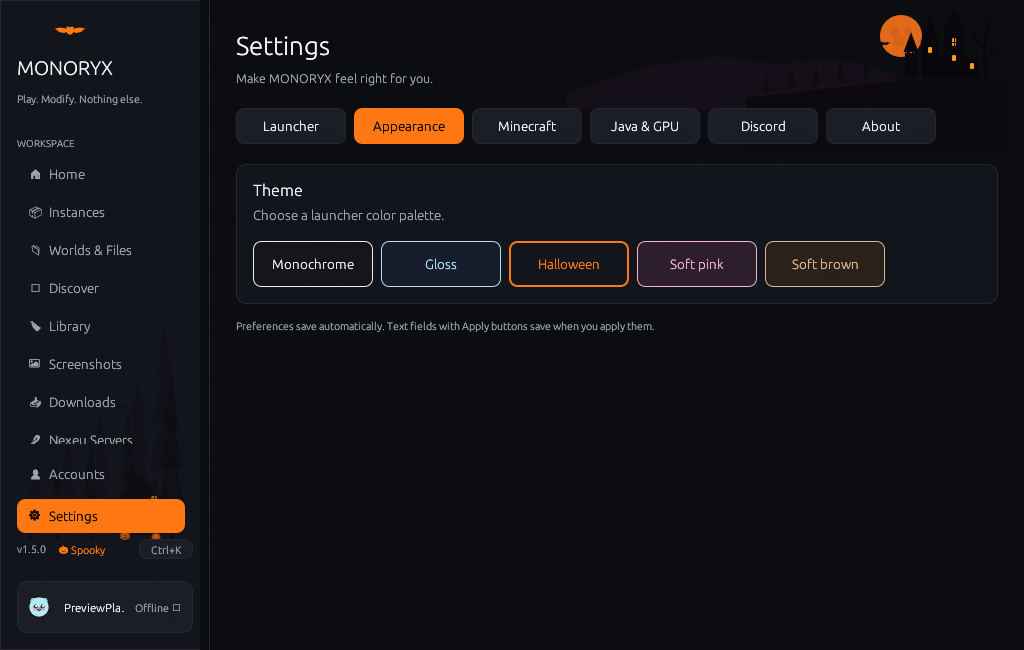
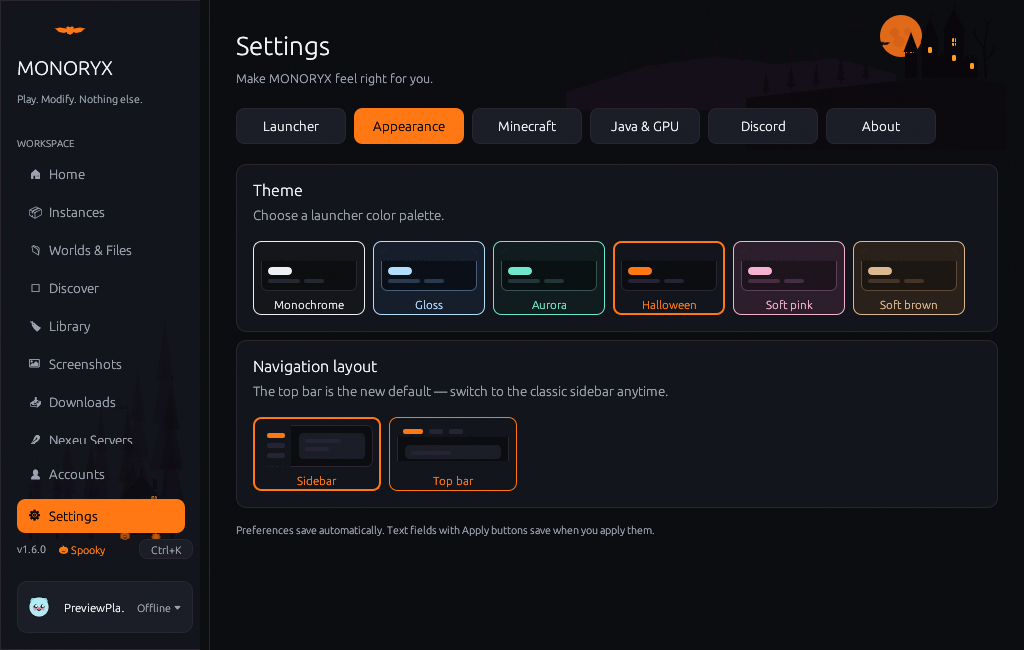
feat(ui): add optional Aurora theme and refresh theme preview cards

diff --git a/src/ui/pages/settings.rs b/src/ui/pages/settings.rs
@@ -667,7 +667,7 @@ fn appearance_settings(state: &mut AppState, ctx: &egui::Context, ui: &mut egui:
 
 fn theme_card(ui: &mut egui::Ui, theme: ThemeKind, selected: bool) -> egui::Response {
     let p = crate::ui::theme::palette_for(theme);
-    let (rect, response) = ui.allocate_exact_size(egui::vec2(128.0, 74.0), egui::Sense::click());
+    let (rect, response) = ui.allocate_exact_size(egui::vec2(112.0, 74.0), egui::Sense::click());
     let corner = CornerRadius::same(8);
     let painter = ui.painter();
     painter.rect_filled(rect, corner, p.elevated);
@@ -681,7 +681,7 @@ fn theme_card(ui: &mut egui::Ui, theme: ThemeKind, selected: bool) -> egui::Resp
         egui::StrokeKind::Inside,
     );
     let preview =
-        egui::Rect::from_min_size(rect.min + egui::vec2(8.0, 8.0), egui::vec2(112.0, 42.0));
+        egui::Rect::from_min_size(rect.min + egui::vec2(8.0, 8.0), egui::vec2(96.0, 42.0));
     painter.rect(
         preview,
         CornerRadius::same(6),
@@ -700,17 +700,17 @@ fn theme_card(ui: &mut egui::Ui, theme: ThemeKind, selected: bool) -> egui::Resp
         p.elevated,
     );
     painter.rect_filled(
-        egui::Rect::from_min_size(preview.min + egui::vec2(7.0, 18.0), egui::vec2(26.0, 8.0)),
+        egui::Rect::from_min_size(preview.min + egui::vec2(7.0, 18.0), egui::vec2(24.0, 8.0)),
         CornerRadius::same(4),
         p.accent,
     );
     painter.rect_filled(
-        egui::Rect::from_min_size(preview.min + egui::vec2(7.0, 30.0), egui::vec2(38.0, 4.0)),
+        egui::Rect::from_min_size(preview.min + egui::vec2(7.0, 30.0), egui::vec2(32.0, 4.0)),
         CornerRadius::same(2),
         p.hover,
     );
     painter.rect_filled(
-        egui::Rect::from_min_size(preview.min + egui::vec2(50.0, 30.0), egui::vec2(26.0, 4.0)),
+        egui::Rect::from_min_size(preview.min + egui::vec2(43.0, 30.0), egui::vec2(20.0, 4.0)),
         CornerRadius::same(2),
         p.hover,
     );

diff --git a/src/config/mod.rs b/src/config/mod.rs
@@ -58,6 +58,7 @@ impl GpuPreference {
 pub enum ThemeKind {
     Monochrome,
     Gloss,
+    Aurora,
     #[default]
     Halloween,
     SoftPink,
@@ -69,16 +70,18 @@ impl ThemeKind {
         match self {
             Self::Monochrome => "Monochrome",
             Self::Gloss => "Gloss",
+            Self::Aurora => "Aurora",
             Self::Halloween => "Halloween",
             Self::SoftPink => "Soft pink",
             Self::SoftBrown => "Soft brown",
         }
     }
 
-    pub const fn all() -> [Self; 5] {
+    pub const fn all() -> [Self; 6] {
         [
             Self::Monochrome,
             Self::Gloss,
+            Self::Aurora,
             Self::Halloween,
             Self::SoftPink,
             Self::SoftBrown,
@@ -879,6 +882,13 @@ mod tests {
                 .start_maximized
         );
         assert_eq!(LauncherConfig::default().window_width, 1280.0);
+    }
+
+    #[test]
+    fn theme_options_include_aurora_without_changing_the_default() {
+        assert_eq!(ThemeKind::default(), ThemeKind::Halloween);
+        assert!(ThemeKind::all().contains(&ThemeKind::Aurora));
+        assert_eq!(ThemeKind::Aurora.label(), "Aurora");
     }
 
     #[test]

diff --git a/src/ui/theme.rs b/src/ui/theme.rs
@@ -107,6 +107,16 @@ pub fn palette_for(theme: ThemeKind) -> Palette {
             accent_hover: Color32::from_rgb(215, 240, 255),
             accent_text: Color32::from_rgb(10, 23, 40),
         },
+        ThemeKind::Aurora => Palette {
+            bg: Color32::from_rgb(9, 17, 19),
+            elevated: Color32::from_rgb(17, 28, 31),
+            elevated2: Color32::from_rgb(25, 39, 43),
+            border: Color32::from_rgb(56, 82, 85),
+            hover: Color32::from_rgb(35, 53, 57),
+            accent: Color32::from_rgb(110, 231, 205),
+            accent_hover: Color32::from_rgb(167, 243, 227),
+            accent_text: Color32::from_rgb(5, 32, 28),
+        },
         ThemeKind::SoftPink => Palette {
             bg: Color32::from_rgb(30, 20, 30),
             elevated: Color32::from_rgb(44, 30, 44),

diff --git a/src/ui/shell/sidebar.rs b/src/ui/shell/sidebar.rs
@@ -298,6 +298,7 @@ fn sidebar_footer(state: &mut AppState, ui: &mut egui::Ui) {
             let (theme_icon, theme_label) = match state.config.theme {
                 crate::config::ThemeKind::Monochrome => ("◐", "Mono"),
                 crate::config::ThemeKind::Gloss => ("✨", "Gloss"),
+                crate::config::ThemeKind::Aurora => ("🌌", "Aurora"),
                 crate::config::ThemeKind::Halloween => ("🎃", "Spooky"),
                 crate::config::ThemeKind::SoftPink => ("🌸", "Pink"),
                 crate::config::ThemeKind::SoftBrown => ("🍂", "Brown"),

diff --git a/src/ui/palette.rs b/src/ui/palette.rs
@@ -78,6 +78,7 @@ fn commands(state: &AppState) -> Vec<Command> {
         let (hint, slash): (&'static str, &'static str) = match theme {
             crate::config::ThemeKind::Monochrome => ("", "/monochrome"),
             crate::config::ThemeKind::Gloss => ("", "/gloss"),
+            crate::config::ThemeKind::Aurora => ("", "/aurora"),
             crate::config::ThemeKind::Halloween => ("🎃", "/halloween"),
             crate::config::ThemeKind::SoftPink => ("", "/softpink"),
             crate::config::ThemeKind::SoftBrown => ("", "/softbrown"),

diff --git a/src/ui/review.rs b/src/ui/review.rs
@@ -82,6 +82,14 @@ fn review_home_worlds_crash_and_discord_layouts() {
             false,
         ),
         (
+            "home-aurora",
+            Page::Home,
+            1280,
+            800,
+            ThemeKind::Aurora,
+            false,
+        ),
+        (
             "home-empty",
             Page::Home,
             1024,

diff --git a/MARKETPLACE.md b/MARKETPLACE.md
@@ -33,7 +33,7 @@ Each instance runs in an isolated directory with its own mods, saves, configs, a
 - **Automated Java Provisioning**: Detects installed JREs on your system and downloads matched Adoptium Temurin runtimes for any Minecraft version.
 - **World Protection & Backups**: Safeguard worlds with one-click compressed ZIP backups and a restore-as-copy mechanism.
 - **Flexible Authentication**: Sign in via Microsoft OAuth device code flow (`microsoft.com/link`) for official online servers, or use offline profiles for singleplayer and LAN play.
-- **Handcrafted Themes**: Includes the seasonal Spooky (Halloween) theme with procedural vector artwork, alongside Gloss, High Contrast, Dark, and Light palettes.
+- **Handcrafted Themes**: Includes the seasonal Spooky (Halloween) theme with procedural vector artwork, alongside Monochrome, Gloss, Aurora, Soft pink, and Soft brown palettes.
 - **Native Windows Build**: Compiles as a Windows subsystem GUI executable without opening a console window.
 
 ---

diff --git a/INSTALLATION.md b/INSTALLATION.md
@@ -301,9 +301,12 @@ The dedicated Worlds manager provides backup and directory inspection tools:
 
 ### Tutorial 8: Theming & Command Palette
 
-- **Themes**: Go to **Settings** -> **Appearance** to toggle between themes:
+- **Themes**: Go to **Settings** -> **Appearance** to toggle between themes, each shown with a live preview card:
+  - **Aurora**: Deep pine-teal night sky with a bright mint accent.
   - **Halloween (Spooky)**: Silhouetted vector backdrop (haunted castle, glowing full moon, flying bats, pine forest), pumpkin corner accents, spiderweb cards, and glowing orange primary buttons.
-  - **Dark / Light / Gloss / High Contrast**: Clean modern aesthetics tailored for readability and contrast.
+  - **Monochrome / Gloss / Soft pink / Soft brown**: Clean modern aesthetics tailored for readability and contrast.
+
+![Aurora Theme](./assets/screenshots/home-aurora.png)
 
 ![Halloween Spooky Theme](./assets/screenshots/home-halloween.png)
 

diff --git a/CHANGELOG.md b/CHANGELOG.md
@@ -10,6 +10,7 @@ New top bar navigation enabled by default, a refreshed launch flow, and lower me
 - **Startup Page:** MONORYX opens on Home by default; enable "Resume last page on launch" in Settings → Launcher to pick up where you left off.
 - **Sidebar Account Badge:** Fixed the account badge chevron rendering as a missing glyph.
 - **Appearance Previews:** Theme and navigation layout options now show mini previews so you can pick colors and layout at a glance.
+- **Aurora Theme:** Added an optional pine-teal theme with a mint accent and a matching `🌌` sidebar badge.
 - **Non-English Instance Names:** Instance names now count characters instead of bytes, so full Korean, Chinese, and Japanese names are accepted up to the 48-character limit.
 
 ## Performance & Memory
